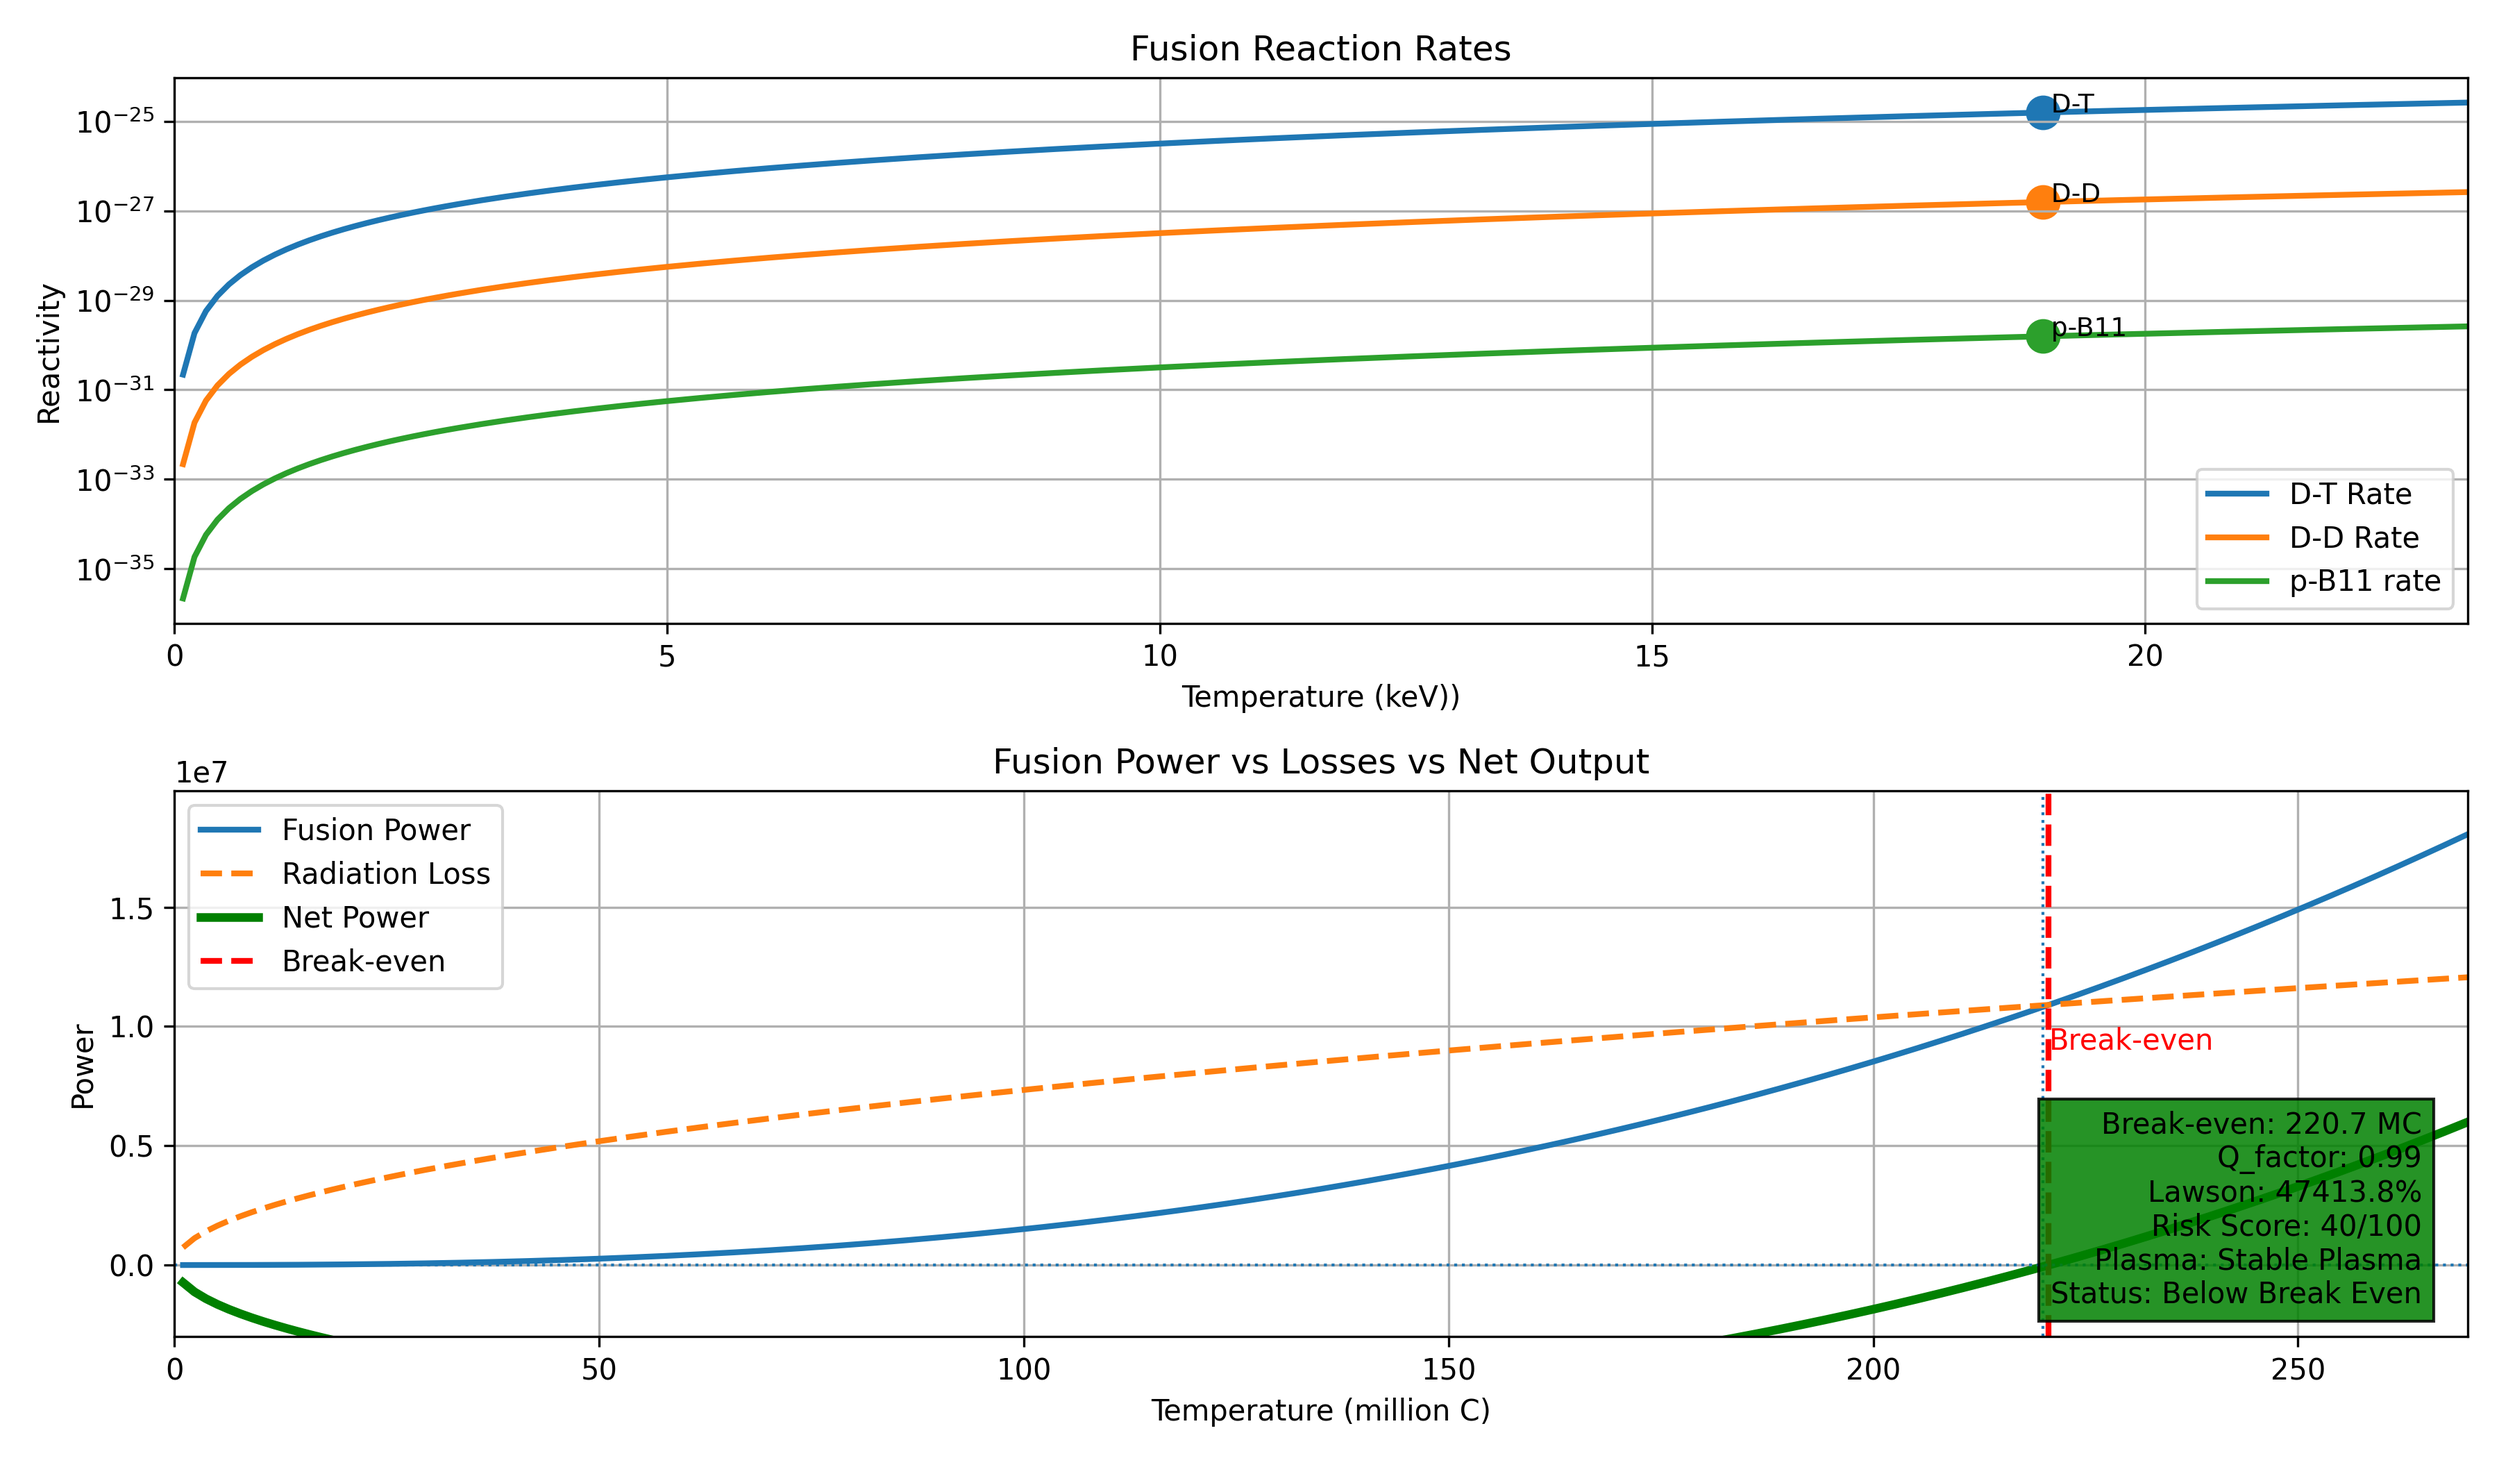
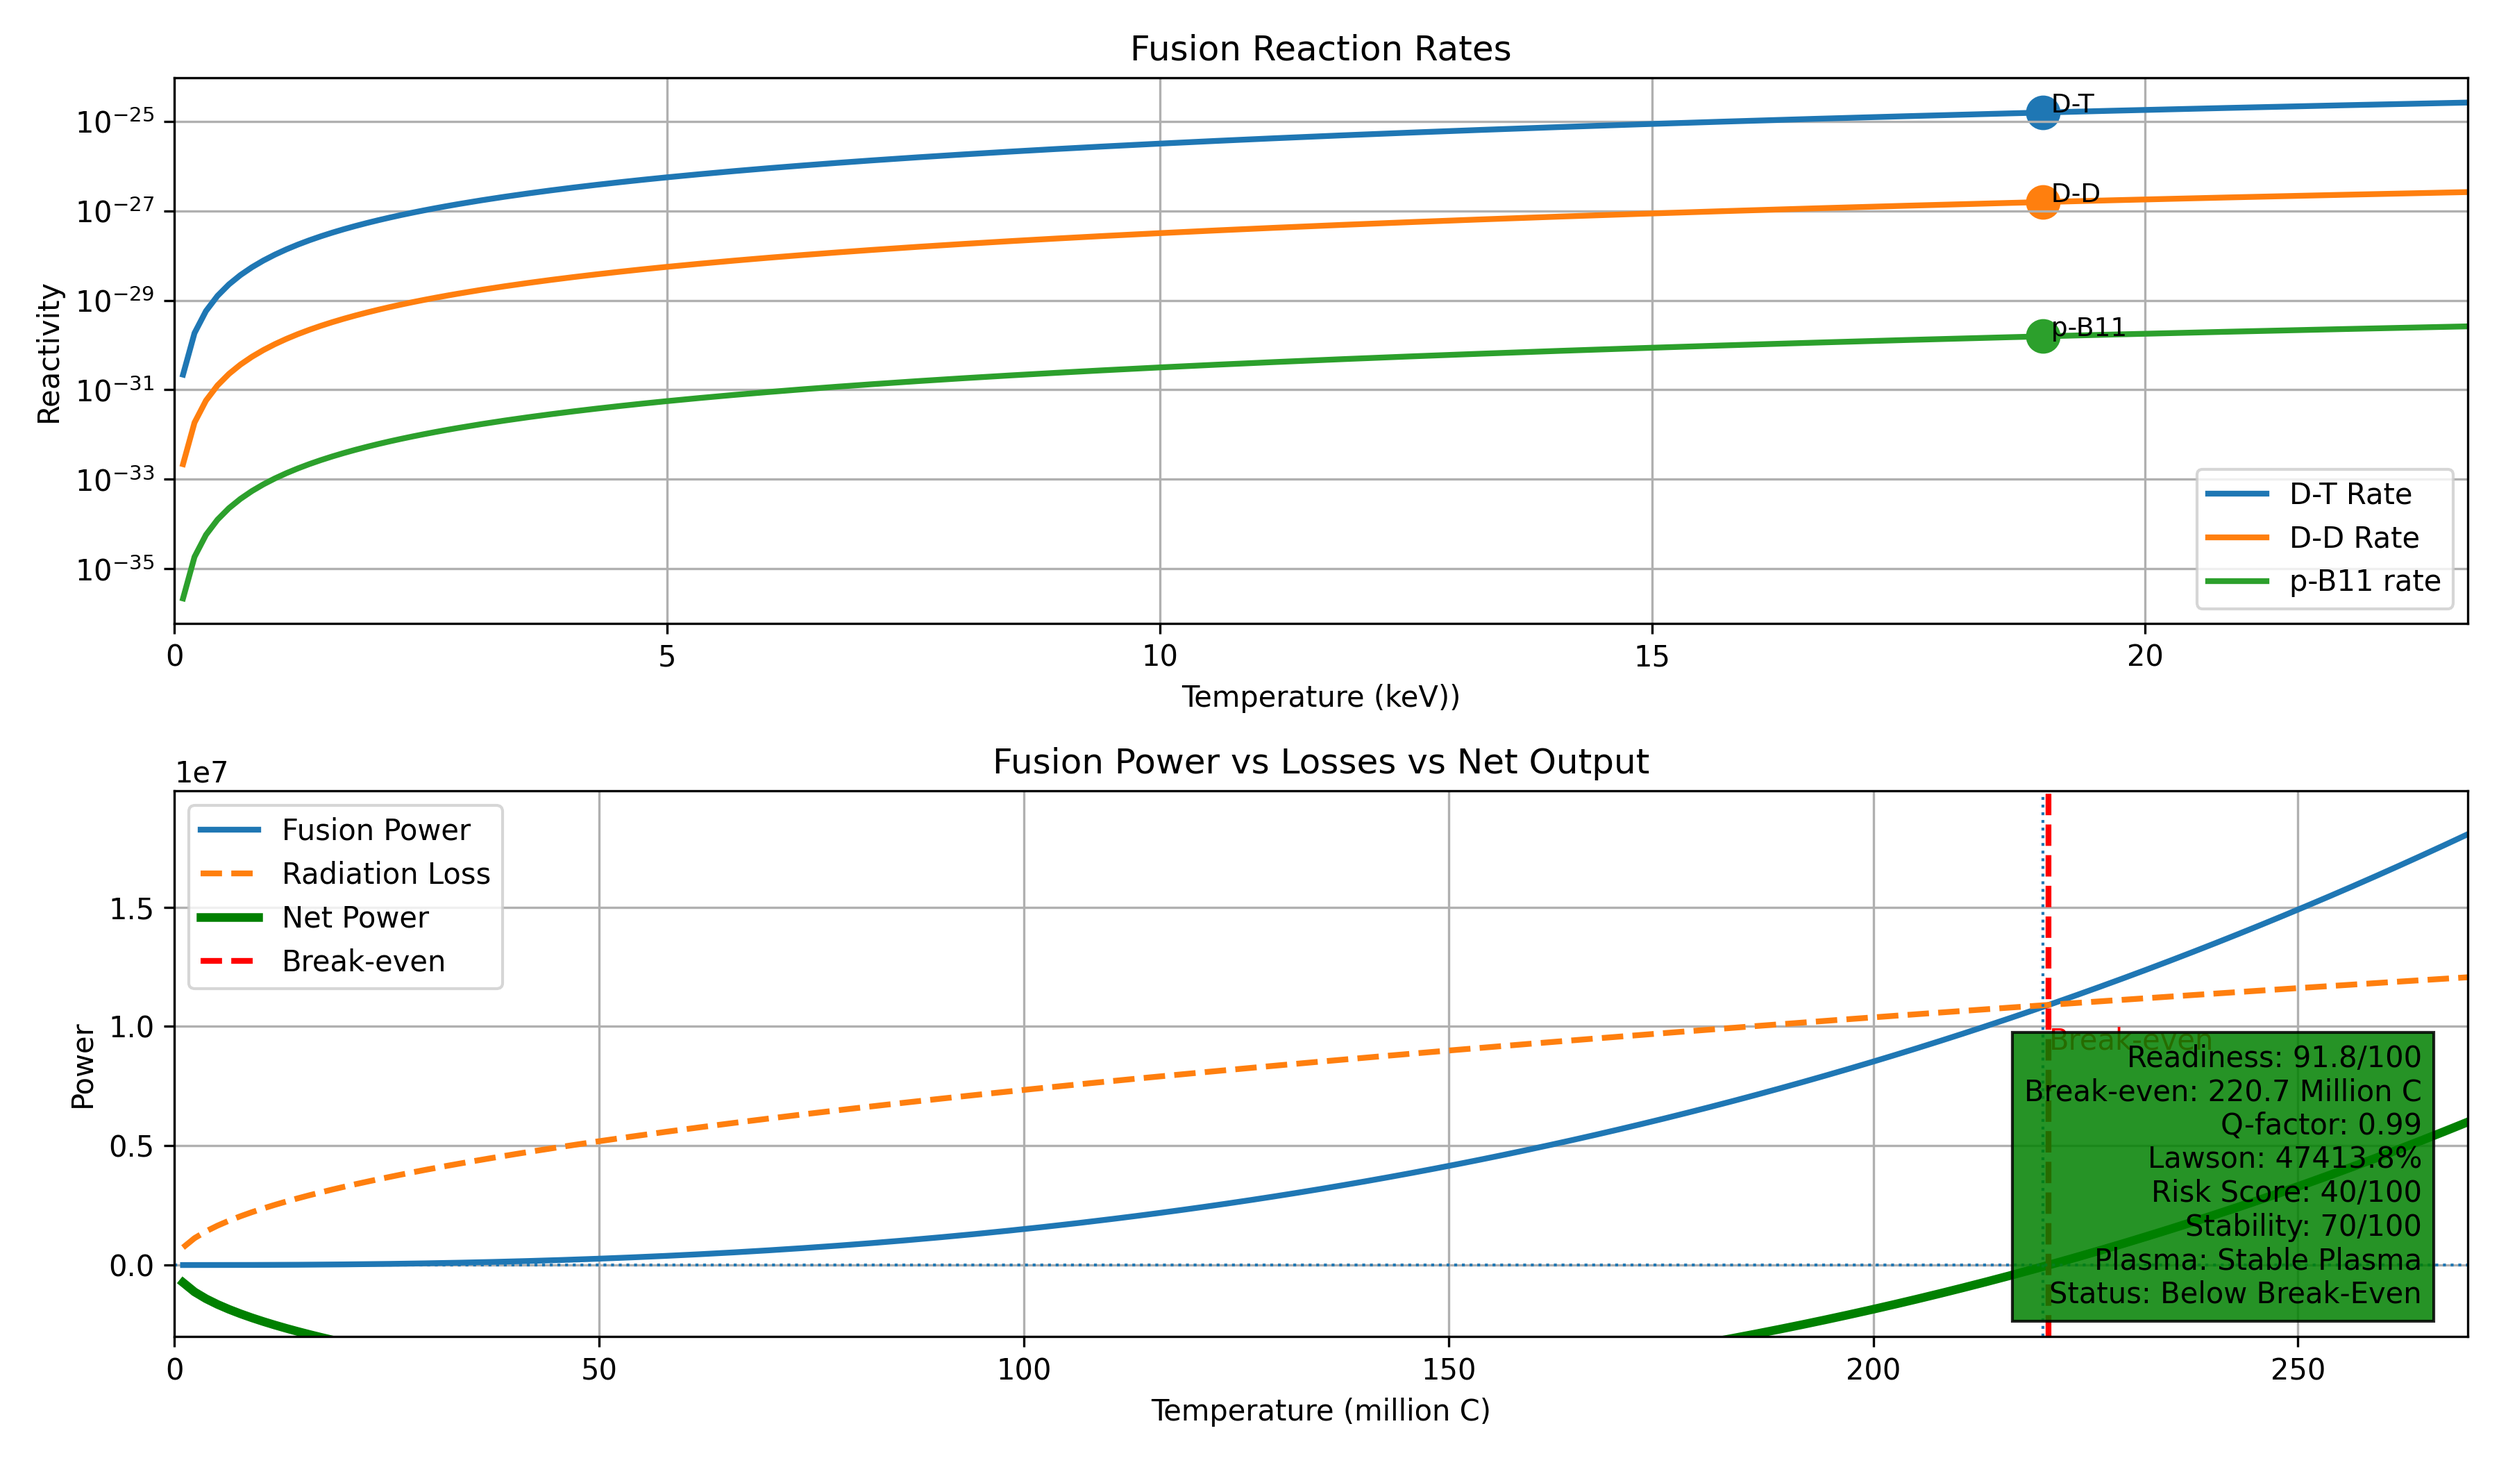
Added Barrier

Changed region(s): [[0.7778, 0.681, 0.9956, 0.8976]]

diff --git a/fusion_calculator.py b/fusion_calculator.py
@@ -25,8 +25,6 @@ ntau = density  * confinement_time
 
 LAWSON_DT = 1e20 * (10 / T_keV) 
 
-LAWSON_THRESHOLD = 1e21 # simplified
-
 # S-factor models
 
 def S_dt(T_keV):
@@ -142,7 +140,7 @@ pb_rates = np.array([reactivity_saddle(T, *pb_params) for T in T_keV_curve])
 # Power Curves
 dt_power = n**2 * dt_rates * E_DT
 dd_power = n**2 * dd_rates * E_DD
-pb_power = n**2 * pb_rates * E_PB
+pb_power = n**2 * pb_rates * E_PB # p-B11 reserved for future advanced fuel modelling
 
 # Total Fusion Power
 total_power = (fuel_mix * dt_power) + ((1 - fuel_mix) * dd_power)
@@ -157,10 +155,6 @@ net_power = total_power - radiation_curve
 dt_energy_curve = dt_rates * density**2 * confinement_time * DT_ENERGY * MEV_TO_J * efficiency
 dd_energy_curve = dd_rates * density**2 * confinement_time * DD_ENERGY * MEV_TO_J * efficiency
 pb_energy_curve = pb_rates * density**2 * confinement_time * PB_ENERGY * MEV_TO_J * efficiency
-
-# Temperature in keV for full range
-T_keV_curve = temperatures / 11.6
-
 
 # Convert keV to million C
 T_million_C = T_keV_curve * 11.6
@@ -226,10 +220,39 @@ elif risk_score < 60:
 else:
    print ("High Risk")
 
-# Plasma Stability Score
-print ("\n=== Plasma Stability Prediction ===")
-
 stability_score = 100
+
+
+# Q contribution (0-40)
+q_score = min(Q_value, 1.0) * 40
+
+# Lawson contribution (0-20)
+lawson_score = min(lawson_progress / 100, 1.0) * 20
+
+# Stability contribution (0-20)
+stability_component = (stability_score / 100) * 20
+
+# Risk contribution 
+risk_component = (100 - risk_score) / 100 * 20
+
+# Fusion Readiness Score
+fusion_readiness = (q_score + lawson_score + stability_component + risk_component)
+
+fusion_readiness = round(fusion_readiness, 1)
+
+print ("\n=== Fusion Readiness ===")
+print (f"Fusion Readiness Score: {fusion_readiness}/100")
+
+if fusion_readiness >= 80: 
+   readiness_status = "Near Commercial Fusion"
+elif fusion_readiness >= 60:
+   readiness_status = "Near Ignition"
+elif fusion_readiness >= 40:
+   readiness_status = "Promising Concept"
+else:
+   readiness_status = "Early Development"
+
+print (readiness_status)
 
 # Q-factor impact
 if Q_value < 0.3:
@@ -251,7 +274,7 @@ stability_score -= int(risk_score * 0.5)
 # Clamp score
 stability_score = max(0, min(100, stability_score))
 
-print ("Plasma Stability Score: {stability_score} 0/100")
+print (f"Plasma Stability Score: {stability_score} 0/100")
 
 if stability_score >= 65:
    plasma_status = "Stable Plasma"
@@ -260,7 +283,48 @@ elif stability_score >= 40:
 else: 
    plasma_status = "High Disruption Risk"
 
-print (plasma_status)
+# Plasma Stability Score
+print ("\n=== Plasma Stability Prediction ===")
+print (f"Plasma Stability Score: {stability_score}/100")
+print (f"status: {plasma_status}")
+
+#===== AI Optimisation Assistant ====
+print ("\n=== AI Optimisation Asssistant ===")
+
+if Q_value < 0.8:
+   print ("- Increase Confinement Time")
+elif Q_value < 1: 
+   print ("- Minor confinement improvements recommended")
+
+if lawson_progress < 100:
+   print ("- Increase Density")
+
+if risk_score > 60:
+   print ("- Reduce enginnering risk")
+
+if stability_score < 65: 
+   print ("- Improve plasma stability")
+
+# ===== Fusion Barrier Tracker =====
+print ("\n=== Fusion Barrier Tracker ===")
+
+plasma_barrier = stability_score
+
+net_energy_barrier = min(Q_value, 1.0) * 100
+
+confinement_barrier = min(lawson_progress, 100)
+
+# Engineering Barrier
+engineering_barrier = 100 - risk_score
+
+overall_barrier_progress = (plasma_barrier + net_energy_barrier + confinement_barrier + engineering_barrier) / 4
+
+print (f"Plasma Stability:{plasma_barrier}% solved")
+print (f"Net Energy Gain:{net_energy_barrier:.1f}% solved")
+print (f"Confinement:{confinement_barrier}% solved")
+print (f"Engineering:{engineering_barrier}% solved")
+
+print (f"\nOverall Fusion Progress:{overall_barrier_progress:.1f}%")
 
 # Plotting section
 plt.figure(figsize=(12, 7))
@@ -344,7 +408,7 @@ else:
 
 # ===== Dashboard Summary Box =====
 if Q_value < 1:
-    status = "Below Break Even"
+    status = "Below Break-Even"
 elif Q_value < 2:
     status = "Near Ignition"
 else:
@@ -359,14 +423,16 @@ else:
    box_color = "red"
 
 if len(zero_index) > 0:
-   break_text = f"{break_even_temp:.1f} MC"
+   break_text = f"{break_even_temp:.1f} Million C"
 else:
    break_text = "Not Reached"
 
-summary_text = (f"Break-even: {break_text}\n"
-                f"Q_factor: {Q_value:.2f}\n"
+summary_text = (f"Readiness: {fusion_readiness}/100\n"
+                f"Break-even: {break_text}\n"
+                f"Q-factor: {Q_value:.2f}\n"
                 f"Lawson: {lawson_progress:.1f}%\n"
                 f"Risk Score: {risk_score}/100\n"
+                f"Stability: {stability_score}/100\n"
                 f"Plasma: {plasma_status}\n"
                 f"Status: {status}")
 
